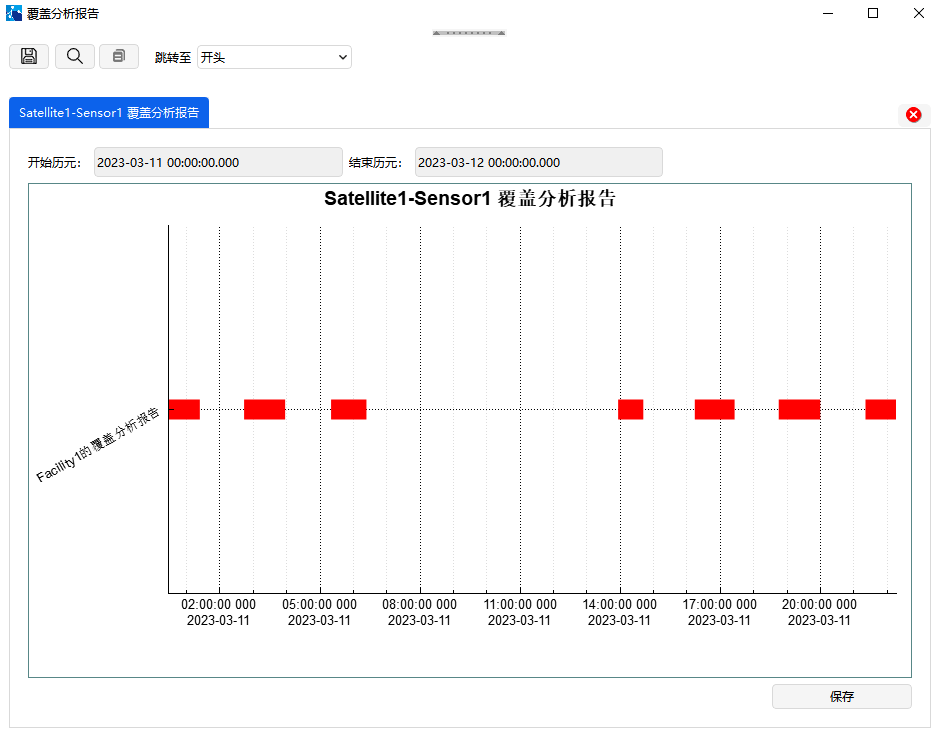
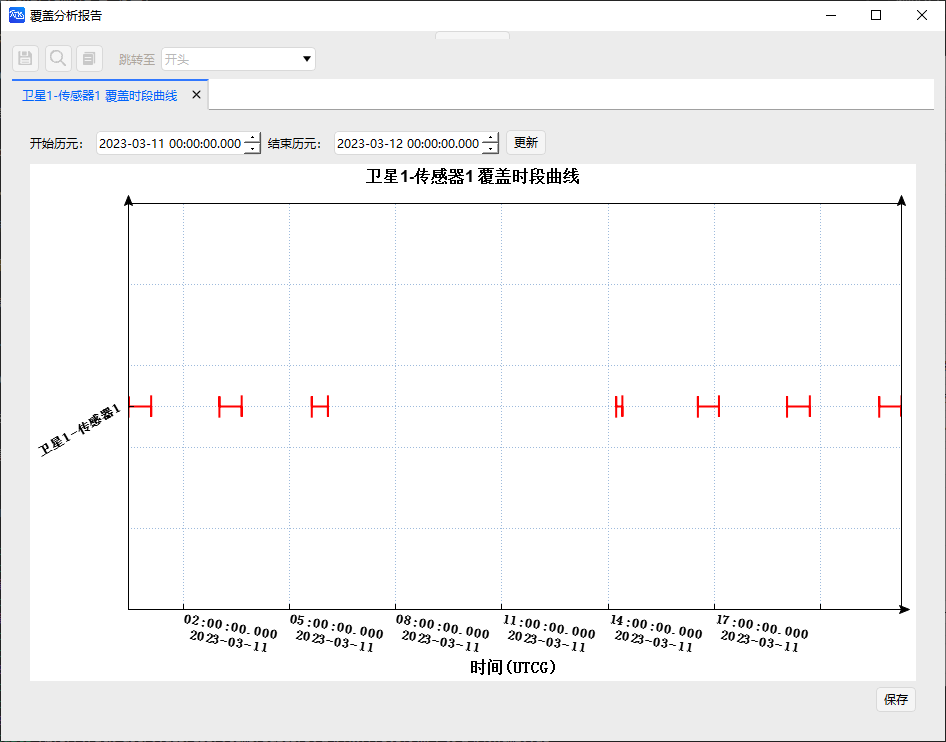
UpdateXiaoYaoPart20250707

diff --git a/3.案例教程/3.3覆盖工具案例.md b/3.案例教程/3.3覆盖工具案例.md
@@ -20,7 +20,7 @@
 
 ① 点击工具栏“开始”中的【插入![](./media/3.3覆盖工具案例/image8.png)】创建对象；
 
-② 选择“想定对象”—“Satellite”，“选择插入方式”—“轨道生成向导”；
+② 选择“想定对象”—“卫星”，“选择插入方式”—“轨道生成向导”；
 
 ③ 点击【插入…】；
 
@@ -43,13 +43,13 @@
 
 ② 点击【插入…】；
 
-③ 选择对象“CoverageExample”—“Satellite1”；
+③ 选择对象“CoverageExample”—“卫星1”；
 
 ④ 点击【确定】；
 
-⑤ 右击“对象”—“CoverageExample”—“Sensor1”，点击【属性】；
+⑤ 右击“对象”—“CoverageExample”—“传感器1”，点击【属性】；
 
-⑥ 选择“传感器类型”—“圆锥”；
+⑥ 选择“传感器类型”—“简单圆锥”；
 
 ⑦ 设置“半锥角(deg)”为“50”；
 
@@ -63,7 +63,7 @@
 
 ③ 点击【插入...】；
 
-④ 右击“对象”—“CoverageExample”—“Facility1”，点击【属性】；
+④ 右击“对象”—“CoverageExample”—“地面站1”，点击【属性】；
 
 ⑤ 选择“位置”—“类型”—“地理坐标”；
 
@@ -89,7 +89,7 @@
 
 ② 选择“分析对象”，点击【选择对象...】；
 
-③ 选择对象“Satellite1”—“Sensor1”，点击【确定】；
+③ 选择对象“卫星1”—“传感器1”，点击【确定】；
 
 ④ 设置计算时间段
 
@@ -97,30 +97,34 @@
 | ----------------------- | ----------------------- |
 | 2023-03-11 00:00:00.000 | 2023-03-12 00:00:00.000 |
 
-⑤ 选择“Facility1”，点击【计算】；
+⑤ 选择“地面站1”，点击【计算】；
 
 ⑥ 点击“报告”—【覆盖分析...】，查看覆盖时段报告；
 
 ⑦ 点击【保存】，保存可见性分析报告。
 
-⑧ 点击【关闭】；
+![覆盖时段分析报告](./media/3.3覆盖工具案例/image30.png '覆盖时段分析报告')
+
+⑧ 点击【关闭】，点击【更多...】可以查看更多报告；
+
+![更多报告](./media/3.3覆盖工具案例/image301.png)
 
 ⑨ 点击“图表”—【覆盖分析...】，查看可视化覆盖时段报告；
 
-![覆盖时段分析报告](./media/3.3覆盖工具案例/image30.png '覆盖时段分析报告')
-
 ![覆盖时段分析可视化报告](./media/3.3覆盖工具案例/image31.png '覆盖时段分析可视化报告')
 
-⑩ 点击【关闭】。
+⑩ 点击【关闭】，点击【更多...】可以查看更多图表曲线。
+
+![更多曲线](./media/3.3覆盖工具案例/image302.png)
 
 ## 覆盖品质分析
 
 ① 点击“品质参数”-【覆盖定义…】；
 
-② 选择“类型”—“重访时间”—“平均值”；
+② 选择“类型”—“重访时间”；“计算”-“平均值”；其他选项保持默认；
 
 ③ 点击【确定】，得到重访时间平均值。
 
-![重访时间计算结果](./media/3.3覆盖工具案例/image32.png '重访时间计算结果')
+![重访时间计算参数设置](./media/3.3覆盖工具案例/image32.png '重访时间计算参数设置')
 
 ![重访时间计算结果](./media/3.3覆盖工具案例/image.png)

diff --git a/5.专业使用指南/5.1可见性工具.md b/5.专业使用指南/5.1可见性工具.md
@@ -50,9 +50,9 @@
 
 | 报告名称             | 含义                                                         |
 | -------------------- | ------------------------------------------------------------ |
-| 可见性报告           | 访问对象对目标对象的可见时段开始时间、结束时间、可见时长及统计信息。 |
-| AER 报告             | 访问对象对目标对象在每个可见时段内，方位角、俯仰角、视线距及统计信息。 |
-| 可见性参数变化率报告 | 访问对象对目标对象在每个可见时段内，视线角速率、视线方位角速率、视线俯仰角速率、视线距变化率及统计信息。 |
+| 可见性分析           | 访问对象对目标对象的可见时段开始时间、结束时间、可见时长及统计信息。 |
+| 视线参数             | 访问对象对目标对象在每个可见时段内，方位角、俯仰角、视线距及统计信息。 |
+| 视线参数变化率报告 | 访问对象对目标对象在每个可见时段内，视线角速率、视线方位角速率、视线俯仰角速率、视线距变化率及统计信息。 |
 | 不可见报告           | 访问对象对目标对象的不可见时段开始时间、结束时间、可见时长及统计信息。 |
 | 不可见 AER 报告      | 访问对象对目标对象在每个不可见时段内，方位角、俯仰角、视线距及统计信息。 |
 
@@ -62,9 +62,9 @@
 
 | 报告名称                   | 含义                                                         |
 | -------------------------- | ------------------------------------------------------------ |
-| 可见性曲线                 | 访问对象对选定目标对象的可见时段时间区间。                   |
-| AER 曲线                   | 访问对象对目标对象在可见时段内，方位角、俯仰角、距离随时间的变化曲线。 |
-| 可见性参数变化率曲线       | 访问对象对目标对象在可见时段内，视线角速率、视线方位角速率、视线俯仰角速率、视线距变化率随时间的变化曲线。 |
+| 可见性分析                 | 访问对象对选定目标对象的可见时段时间区间。                   |
+| 视线参数                   | 访问对象对目标对象在可见时段内，方位角、俯仰角、距离随时间的变化曲线。 |
+| 视线参数变化率曲线       | 访问对象对目标对象在可见时段内，视线角速率、视线方位角速率、视线俯仰角速率、视线距变化率随时间的变化曲线。 |
 | 不可见时段曲线             | 访问对象对选定目标对象的不可见时段时间轴。                   |
 | 不可见 AER 曲线            | 访问对象对目标对象在不可见时段内，方位角、俯仰角、距离随时间的变化曲线。 |
 | 可见俯仰角曲线             | 访问对象对目标对象在可见时段内，俯仰角随时间的变化曲线。     |

diff --git a/3.案例教程/3.11区域覆盖案例.md b/3.案例教程/3.11区域覆盖案例.md
@@ -24,7 +24,7 @@
 
    - 点击工具栏【开始】中的【插入![](media/3.11区域覆盖案例/image-7.png)】创建覆盖定义对象。
    - 选择“想定对象”——“覆盖定义”，“选择插入方式”——“插入默认类型”，点击【插入…】，点击【关闭】。
-   - 右键点击对象浏览器中“CoverageDefinition1-属性”，出现覆盖定义的属性设置页面。
+   - 右键点击对象浏览器中“覆盖定义1-属性”，出现覆盖定义的属性设置页面。
    - 选择“基本-网格”，“网格区域配置参数”与“网格定义”参数设置如图所示。点击【确定】关闭属性窗口，区域定义在场景中展示如图所示。
 
    ![覆盖定义属性设置](media/3.11区域覆盖案例/image.png)
@@ -61,15 +61,49 @@
    ![区域覆盖功能窗口](media/3.11区域覆盖案例/image-4.png)
    
 
-2. 区域覆盖分析结果查看
+2. 区域覆盖报告结果查看
 
-   计算结束后，在右下方“报告”/“图表”区域可查看区域覆盖分析结果，如图所示。
+   计算结束后，在右侧“报告”/“图表”区域可查看区域覆盖分析结果，如图所示。
+   
+   ![可见时段报告](media/3.11区域覆盖案例/image-51.png)
 
    ![可见时段曲线](media/3.11区域覆盖案例/image-5.png)
-   
+
+   更多区域覆盖“报告”和“图表”，如图所示。
+
+   ![更多区域报告](media/3.11区域覆盖案例/image-71.png)
+
+   ![更多区域曲线](media/3.11区域覆盖案例/image-72.png)
+
+3. 覆盖品质报告结果查看
+
+   “报告”-“FOM报告”下可选择品质因子，进而生成相关的报告和曲线。
+
+   ![各纬度FOM值报告](media/3.11区域覆盖案例/image-61.png)
 
    ![各纬度FOM值曲线](media/3.11区域覆盖案例/image-6.png)
+
+   更多覆盖品质“报告”和“图表”，如图所示。
+
+   ![更多区域报告](media/3.11区域覆盖案例/image-711.png)
+
+   ![更多区域曲线](media/3.11区域覆盖案例/image-721.png)
+
+
+4. 网格检查工具
+
+   点击“网格检查工具”，并在二维场景中选择覆盖定义1中的网格点，可以得到网格点的相关参数，如图所示；
+
+   ![网格检查工具使用](media/3.11区域覆盖案例/image-73.png)
    
+   点击“网格检查工具”中的“报告”和“图表”，可展示相关报告和曲线，如图所示。
+   
+   ![网格点覆盖时段报告](media/3.11区域覆盖案例/image-74.png)
 
+   ![网格点覆盖时段曲线](media/3.11区域覆盖案例/image-75.png)
 
+5. 品质因子的二维静态图像展示
 
+   在“品质因子”-“属性”-“二维视图”-“静态”下可设置显示品质因子的静态图像，支持自定义分级区域，如图所示。
+
+  ![品质因子二维静态图像](media/3.11区域覆盖案例/image-723.png)

diff --git a/3.案例教程/3.2可见性工具案例.md b/3.案例教程/3.2可见性工具案例.md
@@ -28,7 +28,7 @@
 
 ## 修改对象属性
 
-① 右击“对象” — “AccessExample” — “Satellite1”，点击【属性】;
+① 右击“对象” — “AccessExample” — “卫星1”，点击【属性】;
 
 ② 选择“坐标类型” — “轨道根数”，修改轨道根数为
 
@@ -61,7 +61,7 @@
 
 ⑧ 点击【应用】-【确定】；
 
-⑨ Satellite2保持默认参数，右击“对象”—“AccessExample”—“Satellite2”，点击【属性】，点击【确定】。
+⑨ 卫星2保持默认参数，右击“对象”—“AccessExample”—“卫星2”，点击【属性】，点击【确定】。
 
 ## 查看二维和三维视图轨迹
 
@@ -75,7 +75,7 @@
 
 ② 选择“访问对象”，点击【选择对象】；
 
-③ 选择对象“Satellite1”，点击【确定】；
+③ 选择对象“卫星1”，点击【确定】；
 
 ④ 设置计算时间段
 
@@ -83,18 +83,30 @@
 | ----------------------- | ----------------------- |
 | 2023-03-11 00:00:00.000 | 2023-03-12 00:00:00.000 |
 
-⑤ 选择“Satellite2”，点击【计算![](./media/3.2可见性工具案例/image24.png)】；
+⑤ 选择“卫星2”，点击【计算![](./media/3.2可见性工具案例/image24.png)】；
 
-⑥ 点击“报告”—【可见性分析】，可查看卫星可见时段报告；
+⑥ 点击右侧“报告”下—【可见性分析】，可查看卫星可见时段报告数据文件；
 
 ![可见性分析报告](media/3.2可见性工具案例/image-2.png)
 
 ⑦ 点击【保存】，保存可见性分析报告。
 
-⑧ 点击【关闭】；
+⑧ 点击【关闭】，在“图表”—【更多...】中可以选择更多的数据报告类型；
 
-⑨ 点击“图表”—【AER 报告】，得到 AER 图表报告。
+![更多报告](media/3.2可见性工具案例/image-22.png)
 
-![AER 图表报告](./media/3.2可见性工具案例/image-33.png)
+例如：距离变化率报告
 
-⑩ 点击【关闭】。
+![卫星1距离变化率报告](./media/3.2可见性工具案例/image-334.png)
+
+⑨ 点击“图表”—【视线参数】，得到视线参数图表报告。
+
+![视线参数图表报告](./media/3.2可见性工具案例/image-33.png)
+
+⑩ 点击【关闭】，在“图表”—【更多...】中可以选择更多的数据报告类型。
+
+![更多图表](media/3.2可见性工具案例/image-222.png)
+
+例如：可见时段百分比饼图
+
+![卫星1可见时段百分比饼图](./media/3.2可见性工具案例/image-333.png)

diff --git a/5.专业使用指南/5.9区域覆盖模块.md b/5.专业使用指南/5.9区域覆盖模块.md
@@ -25,7 +25,7 @@
 
 ### 界面介绍
 
-本功能界面包括分析对象选择、分析时间设置、覆盖品质参数设置、分析结果生成四个区域，如图所示
+本功能界面包括分析对象选择、分析时间设置、分析结果生成三个区域，如图所示
 
 ![区域覆盖分析界面](media/5.9区域覆盖模块/image.png)
 
@@ -75,20 +75,19 @@
 
 在“工具”页面，点击“区域覆盖”，窗口如图所示。分析对象选择`覆盖定义1`，列表中选择所有卫星下挂的传感器，点击“计算”。这一步时长由计算复杂度决定。
 
-![区域覆盖分析窗口](media/5.9区域覆盖模块/image-11.png)
+<!-- ![区域覆盖分析窗口](media/5.9区域覆盖模块/image-11.png) -->
 
-计算结束后，在“报告”/“图表”功能区即可生成覆盖报告，部分报告见图。
-
-![可见时段报告](media/5.9区域覆盖模块/image-12.png)
+计算结束后，在“报告”/“图表”功能区即可生成各类报告和图表。报告包括：可见时段报告、不可见时段分析报告、全局覆盖分析报告、网格点信息报告、网格点可见对象报告、区域覆盖率统计报告、单个访问对象区域覆盖结果统计报告和纬度覆盖统计报告；图表包括：可见时段曲线、间隔时段曲线、全局覆盖曲线、全局覆盖间隔曲线、覆盖比例曲线和纬度覆盖曲线。
+<!-- ![可见时段报告](media/5.9区域覆盖模块/image-12.png)
 
 ![网格点可见对象报告](media/5.9区域覆盖模块/image-13.png)
 
 ![纬度覆盖曲线图表](media/5.9区域覆盖模块/image-14.png)
 
-![各纬度FOM曲线图表](media/5.9区域覆盖模块/image-15.png)
+![各纬度FOM曲线图表](media/5.9区域覆盖模块/image-15.png) -->
 
-品质因子的二维静态图像如图所示。
+其中，间隔时段曲线如图所示。
 
-![品质因子二维静态图像](media/5.9区域覆盖模块/image-16.png)
+![间隔时段曲线](media/5.9区域覆盖模块/image-17.png)
 
 [区域覆盖案例](../3.案例教程/3.11区域覆盖案例.md)

diff --git a/5.专业使用指南/5.3轨道机动规划工具.md b/5.专业使用指南/5.3轨道机动规划工具.md
@@ -181,4 +181,6 @@
 
 ### Lambert段
 
-Lambert段用来给在期望时间，期望末状态下的当前状态向期望状态的转移轨道。从功能上说，其大致等同于末状态约束下的目标序列段{机动段——预报段——机动段}。由于Lambert问题本身存在多解，Lambert段能给出机动量最小的解。
+Lambert段用来给在期望时间，期望末状态下的当前状态向期望状态的转移轨道。从功能上说，其大致等同于末状态约束下的目标序列段{机动段——预报段——机动段}。Lambert问题根据实际物理情况存在多解或者无解的情况，本段能够求解总脉冲最小的轨道。Lambert段的初始状态继承自前一序列段，Lambert段的轨道设置页面接近预报段，Lambert段的算法参数页面可以设置目标状态，即瞄准状态。运行后能够计算出始末时刻的脉冲机动及瞄准状态的误差。并将实际末时刻状态向下传递。
+
+![轨道设置页面](media/5.3轨道机动规划工具/image-30.png)
